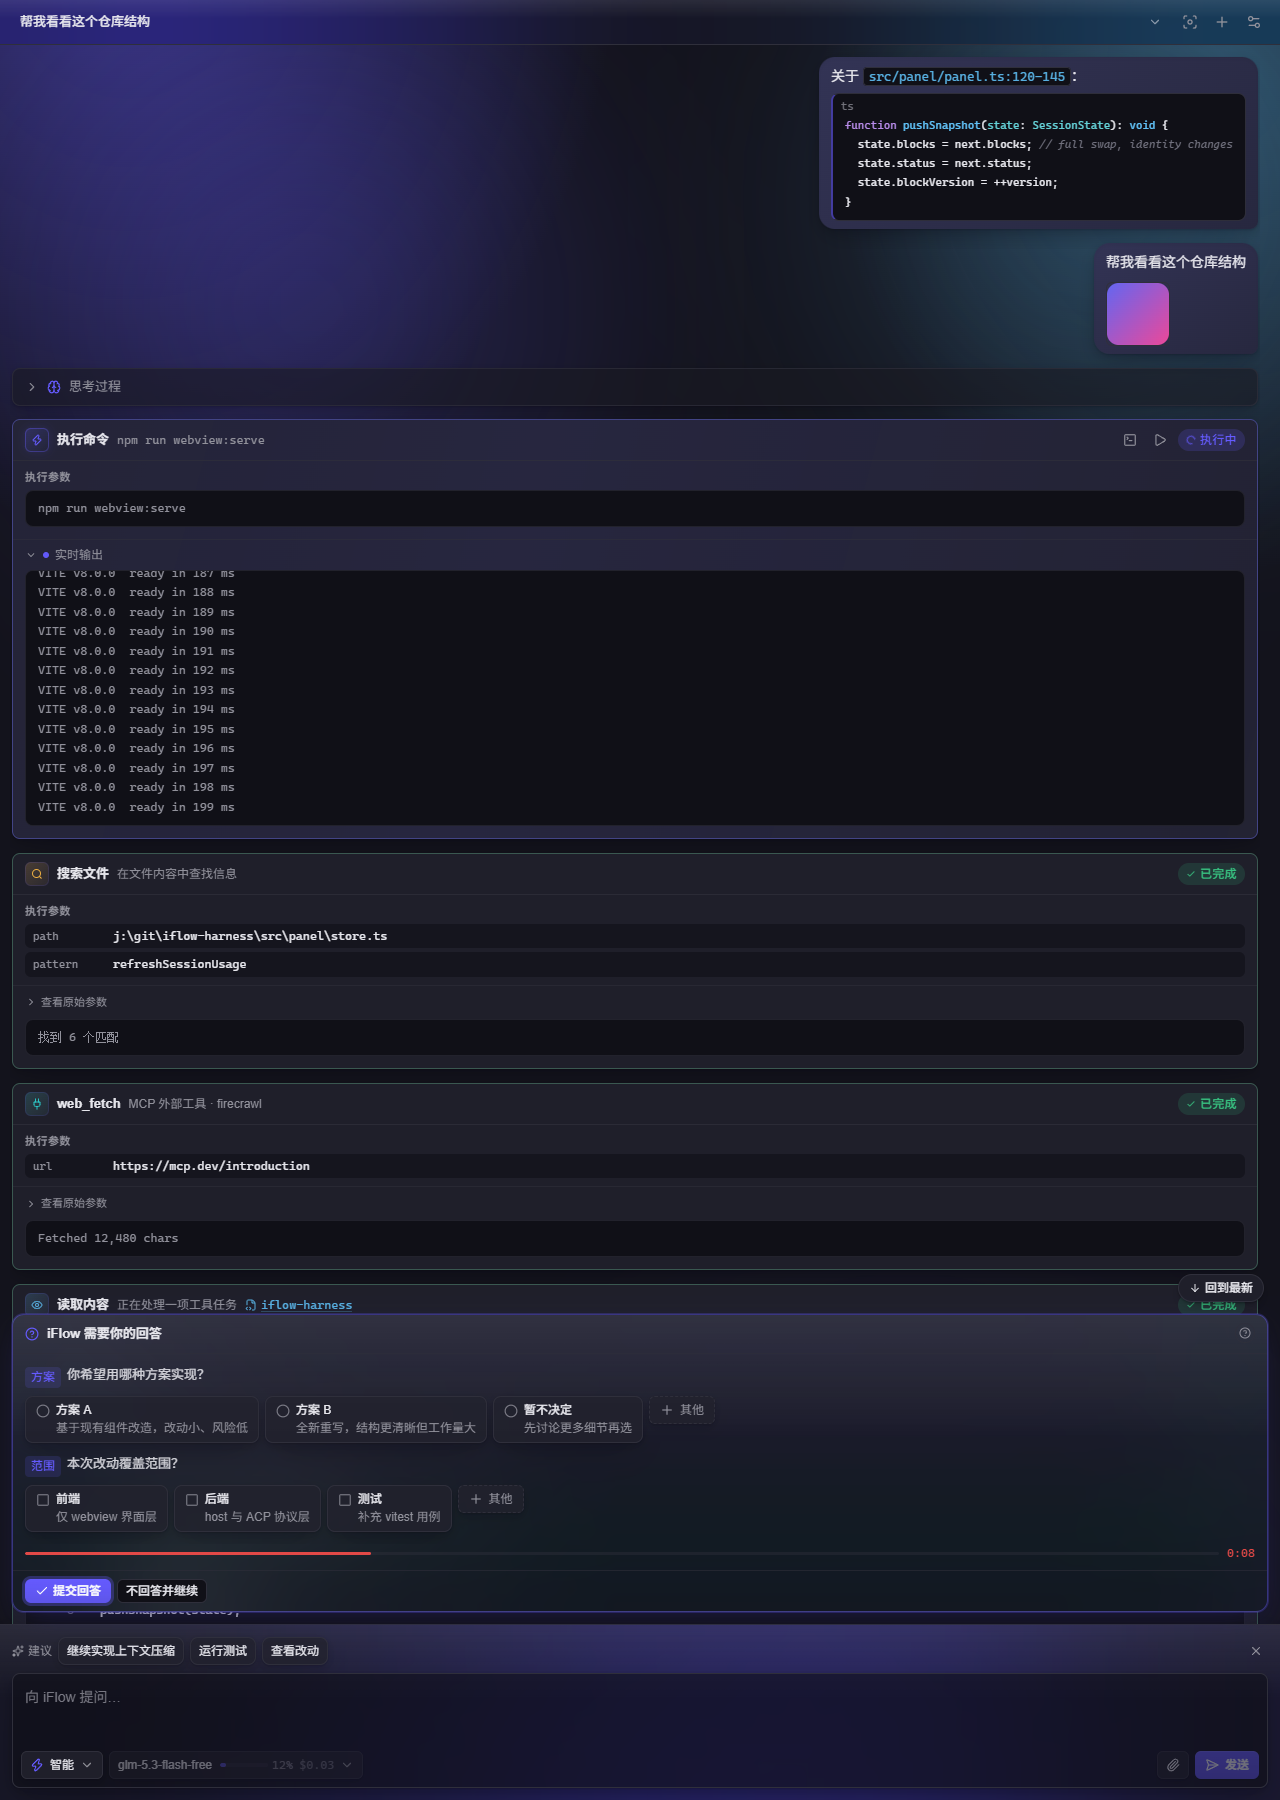
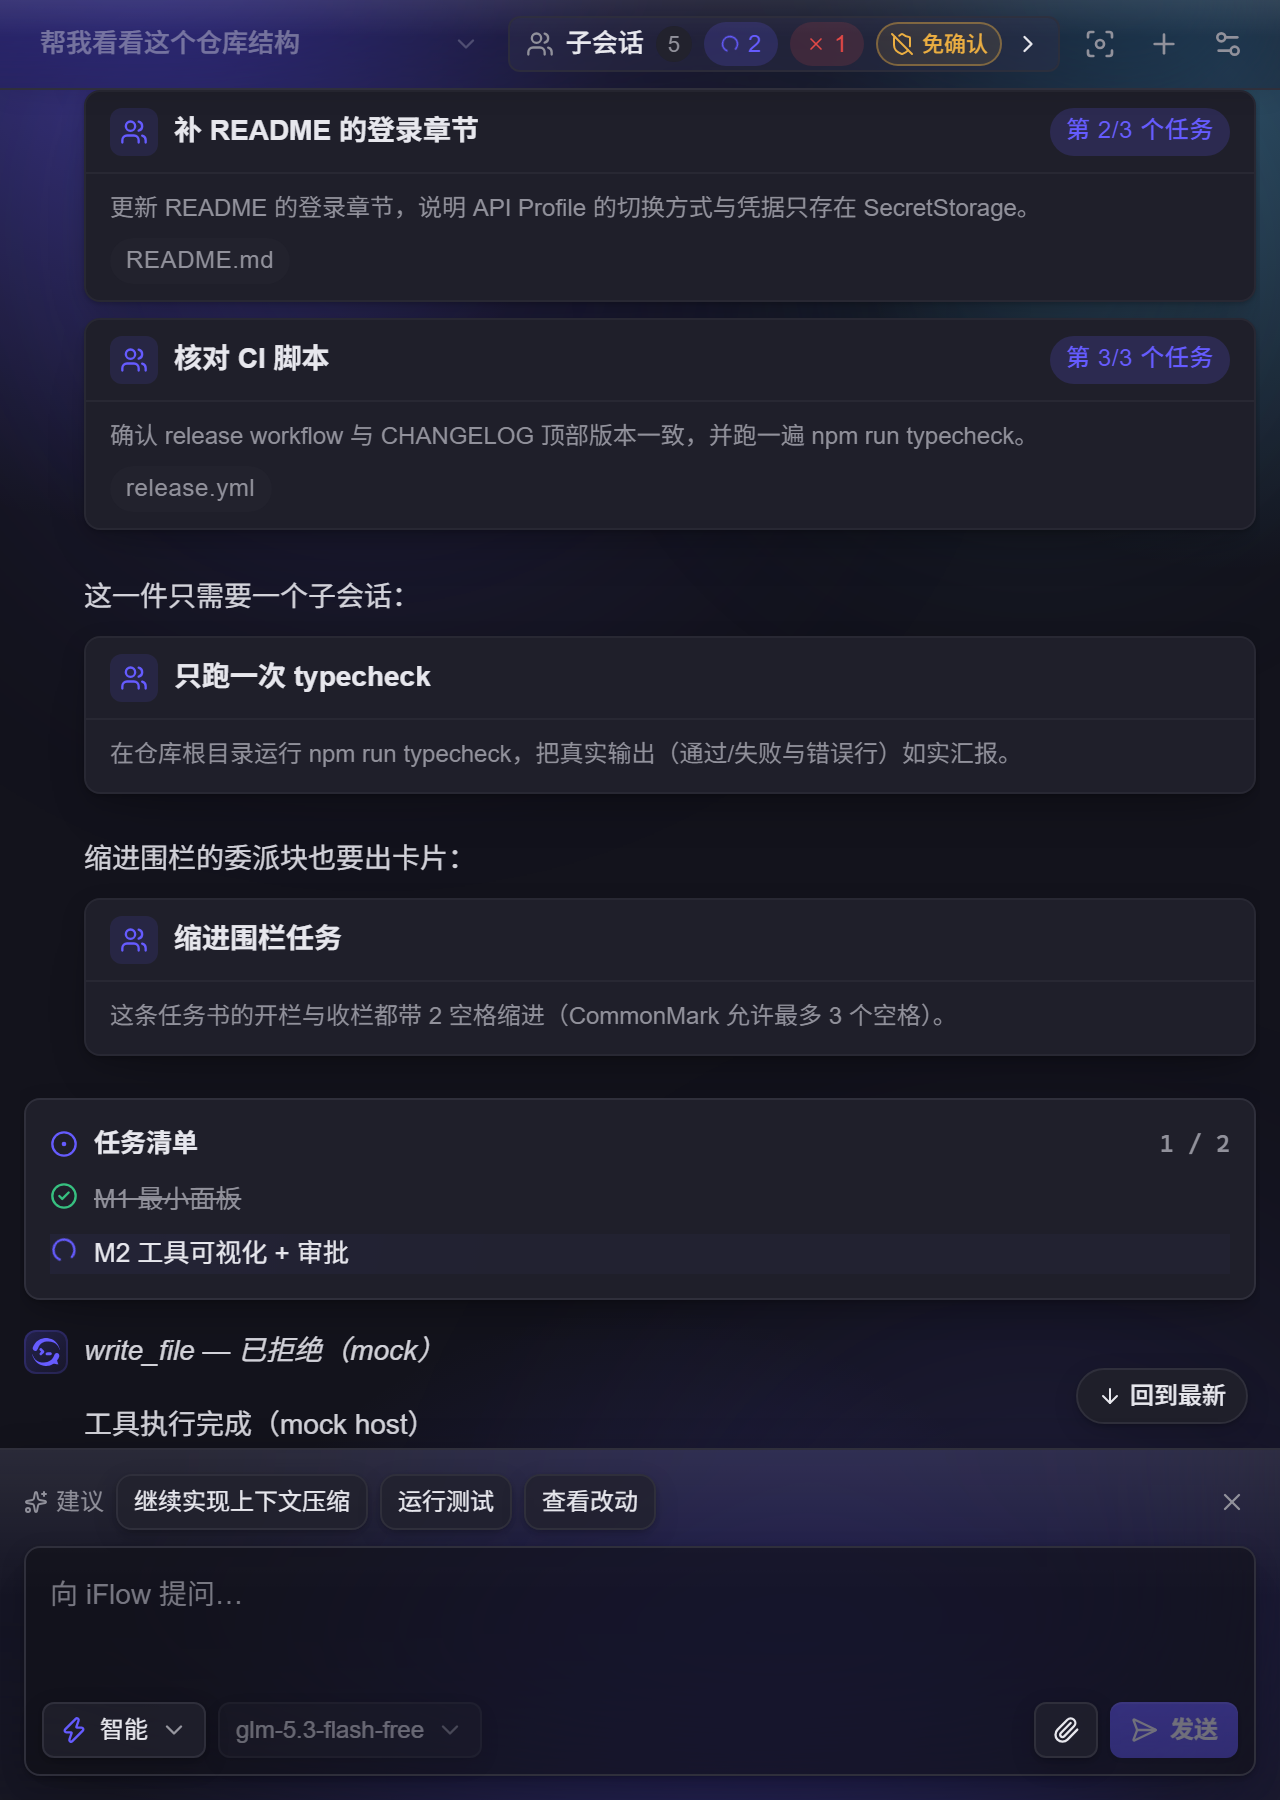
docs: 补 3.0.0 Super Agent 界面截图并更新深色面板总览
- 新增子会话看板截图（展开态 + 失败行详情：状态/分支/工作目录/合并与清理）
- 新增 super-agent 委派任务卡截图（3 张任务书卡片）
- 新增多张待处理卡堆叠截图（计数器 + 审批卡在顶）
- 覆盖 panel-dark.png：改为当前 UI（子会话看板控件 + 免确认 + 委派卡）
- README 新增「Super Agent 多子会话」小节并引用上述截图

全部截图取自 mock webview 的真实渲染（headless Chrome 640x900@2x）

diff --git a/README.md b/README.md
@@ -4,6 +4,16 @@
 
 ![面板总览](docs/images/panel-light.png)
 
+## Super Agent 多子会话
+
+主会话是协调者：它把可独立完成并验证的工作单元写成任务书，用 `super-agent` 委派块派发出去。每个子会话 = 独立 CLI 进程 + 独立 ACP 会话 + 独立 git worktree（分支 `iflow/super/<slug>-<unique>`），因此多个子会话同时改同一个项目也不会互相踩踏。顶栏的「子会话」控件是看板入口：折叠时只报计数与待处理数，展开后逐行给出状态、分支与工作目录、汇报摘要，以及中断 / 合并 / 清理操作；子会话始终免确认，只有它真的需要你回答时才会把提问推到你面前。子会话结束后由宿主串行把分支合并回来，合并前先用 `git merge-tree` 在对象库里预演，绝不替你 commit / stash / 撤销本地改动。
+
+![子会话看板](docs/images/super-agent-board.png)
+
+主会话写下的任务书渲染成独立卡片（正文结构化排版、单一展开入口），与宿主实际派发的载荷同源：
+
+![委派任务卡](docs/images/super-agent-delegation.png)
+
 ## 亮点
 
 - **完整 agent 工作流**：流式对话、审批卡内嵌只读 Diff（批的是变更本身而不是一个标题）、行号 Diff 逐块 hunk 保留/回退、Plan 计划确认卡（可在卡内编辑并重新规划）、交互式提问卡、子代理进度卡片与单独停止、消息排队与打断发送（Steer）。
@@ -35,6 +45,10 @@
 **工具与审批**
 
 ![审批卡片](docs/images/approval-dark.png)
+
+多张待处理卡（审批 / Plan / 提问）同时到达时改为堆叠形态，只完整显示最新一张，顶部计数器可展开为完整列表：
+
+![待处理卡堆叠](docs/images/pending-cards-stack.png)
 
 - 工具调用卡片：按工具名映射标签 / 图标 / 强调色，执行参数结构化摘要 + 原始参数懒挂载折叠，长驻命令实时输出流
 - 行号 Diff 视图：每个 hunk 可单独保留 / 回退，提交后按保留块确定性写盘；支持整文件回退与 VSCode 原生并排对比（文件对比）
